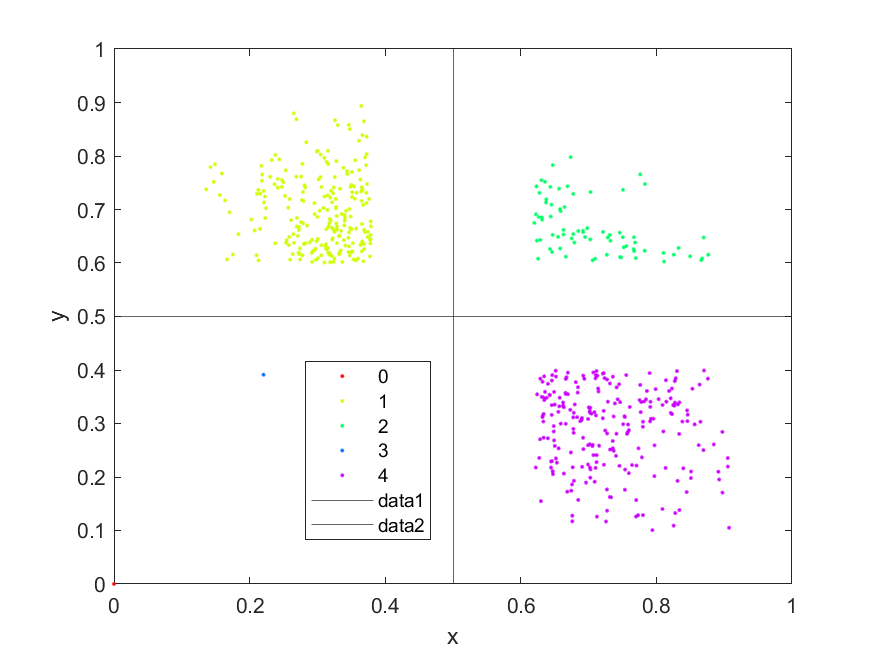
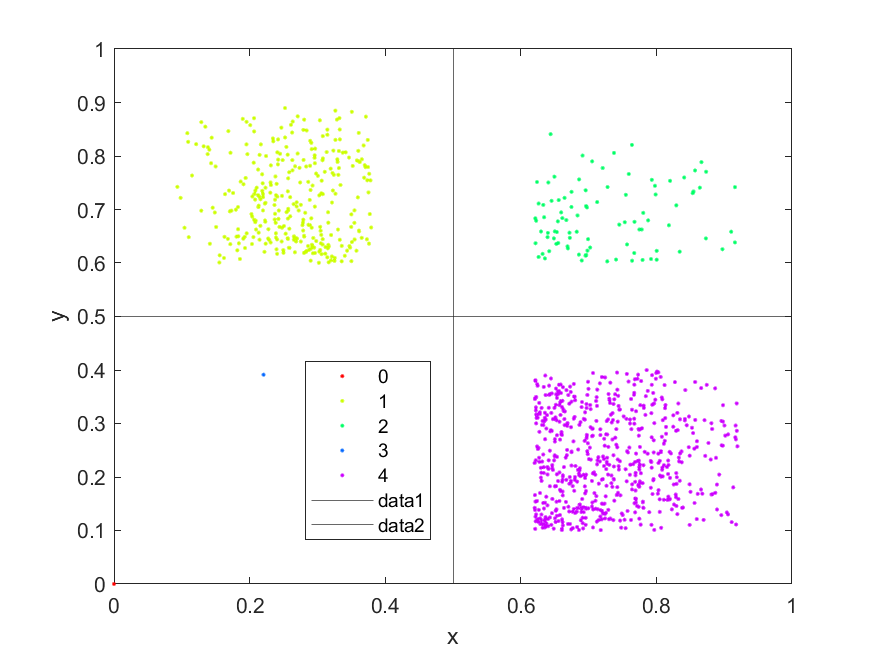
Added separate clustering if clusters deviate

diff --git a/clustering/move_clusters.m b/clustering/move_clusters.m
@@ -1,0 +1,54 @@
+function [adjET] = move_clusters(data, clusters, aoi_width, aoi_height)
+    
+    adjET = zeros(size(data, 1), 6);
+    aoi_info = get_aoi_info(aoi_width, aoi_height);
+    
+    for i=1:4 %for each AOI          
+       % Find the points within the new cluster 
+       if clusters(i, 1) > 0
+           ind_withinCluster = find(...
+               data(:, 3) > clusters(i, 5) & ...
+               data(:, 3) < clusters(i, 6) & ...
+               data(:, 4) > clusters(i, 7) & ...
+               data(:, 4) < clusters(i, 8) ...
+           );
+       
+           x_bias = (aoi_info(i, 1)-clusters(i, 3));
+           y_bias = (aoi_info(i, 2)-clusters(i, 4));
+           
+           % Adjust the x (col 1) and y position (col 2) such that cluster 
+           % center is in middle of AOI
+           % col 1: run
+           % col 2: task index
+           % col 3: x
+           % col 4: y
+           % col 5: t task
+           % col 6: aoi
+           adjET(ind_withinCluster, 1:6) = ...
+               [...
+                   data(ind_withinCluster, 1:2), ...
+                   data(ind_withinCluster, 3) + x_bias, ...
+                   data(ind_withinCluster, 4) + y_bias, ...
+                   data(ind_withinCluster, 5), ...
+                   repmat(i, length(ind_withinCluster),1)...
+               ];
+         
+       else
+           % Use the conventional aoi
+           ind_withinCluster = find(...
+               data(:, 3) > aoi_info(i, 3) & ...
+               data(:, 3) < aoi_info(i, 4) & ...
+               data(:, 4) > aoi_info(i, 5) & ...
+               data(:, 4) < aoi_info(i, 6) ...
+           );  
+       
+           adjET(ind_withinCluster, 1:6) = [...
+               data(ind_withinCluster, 1:2), ...
+               data(ind_withinCluster, 3), ...
+               data(ind_withinCluster, 4), ...
+               data(ind_withinCluster, 5), ...
+               repmat(i, length(ind_withinCluster),1)...
+           ];
+       end
+    end 
+end

diff --git a/clustering/fit_clusters.m b/clustering/fit_clusters.m
@@ -1,0 +1,59 @@
+function [largest_clusters] = fit_clusters(...
+    data, n_clusters, aoi_width, aoi_height, tolerance, ...
+    plot_results)   
+    
+    if plot_results
+        run_name = int2str(unique(data(:, 1)));
+        mkdir(fullfile('plots', run_name));
+        scatter_plot(data(:, 3), data(:, 4), ...
+            fullfile('plots', run_name, 'uncorrected.png'));
+    end
+    grandmean=mean(data(:, (3:4))); %Find center of all eye data points
+
+    % Assing clusters
+    clusters = clusterdata(...
+        data(:, 3:4), ...
+        'linkage','centroid', ...
+        'savememory','on', ...
+        'maxclust', n_clusters);
+    
+    % col: 8
+    data=[data clusters];   
+
+    if plot_results
+        scatter_plot_clusters(data(:, 3), data(:, 4), data(:, 6), ...
+            grandmean, ...
+            fullfile('plots', run_name, 'clusters.png'));
+    end
+
+    % col 1: cluster number
+    % col 2: number of data points in each cluster (accumarray),
+    % col 3: mean cluster x position
+    % col 4: mean cluster y position
+    % col 5: left border
+    % col 6: right border
+    % col 7: top border
+    % col 8: bottom borter
+    cluster_aoi_info = get_cluster_aoi_info(...
+        data, clusters, n_clusters, aoi_width, aoi_height);
+
+    % col 1-8: see cluster_aoi_info
+    % col 9: corner (TL, TR, BL, BR)
+    largest_clusters = find_largest_clusters(...
+        cluster_aoi_info, grandmean, tolerance);
+    
+    % Plot resulting clusters
+    if plot_results
+        data_largest_clusters = data(...
+            (...
+                ismember(data(:, 6), largest_clusters(:, 1)) & ...
+                (data(:, 6) > 0)...
+            ), :);
+        scatter_plot_clusters(...
+            data_largest_clusters(:, 3), ...
+            data_largest_clusters(:, 4), ...
+            data_largest_clusters(:, 6), ...
+            grandmean, ...
+            fullfile('plots', run_name, 'corner_clusters.png'));
+    end
+end
